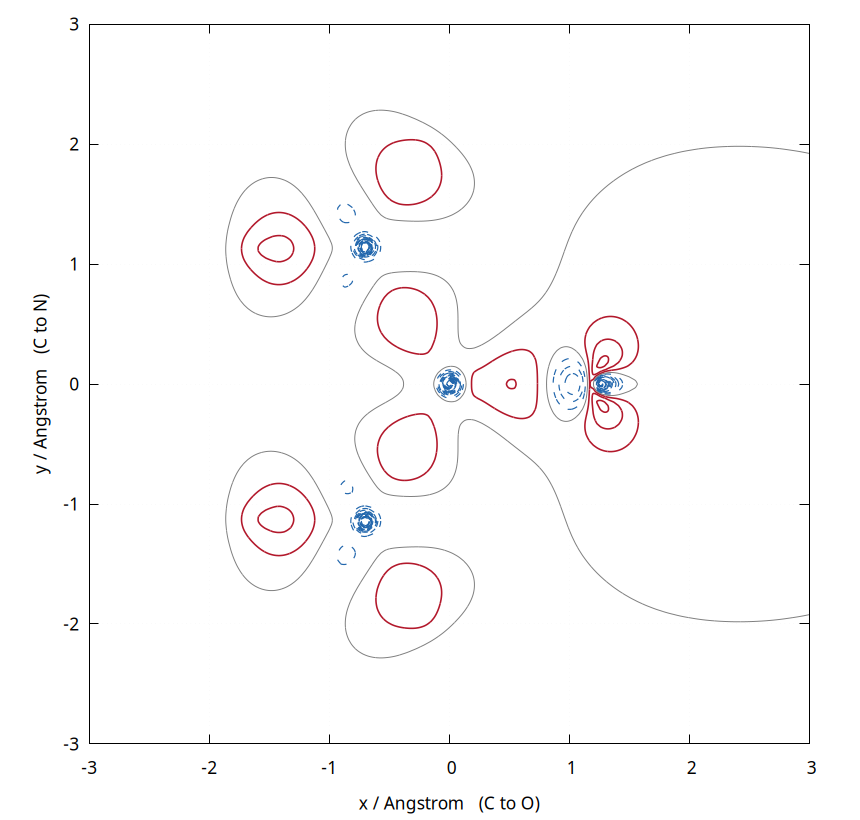
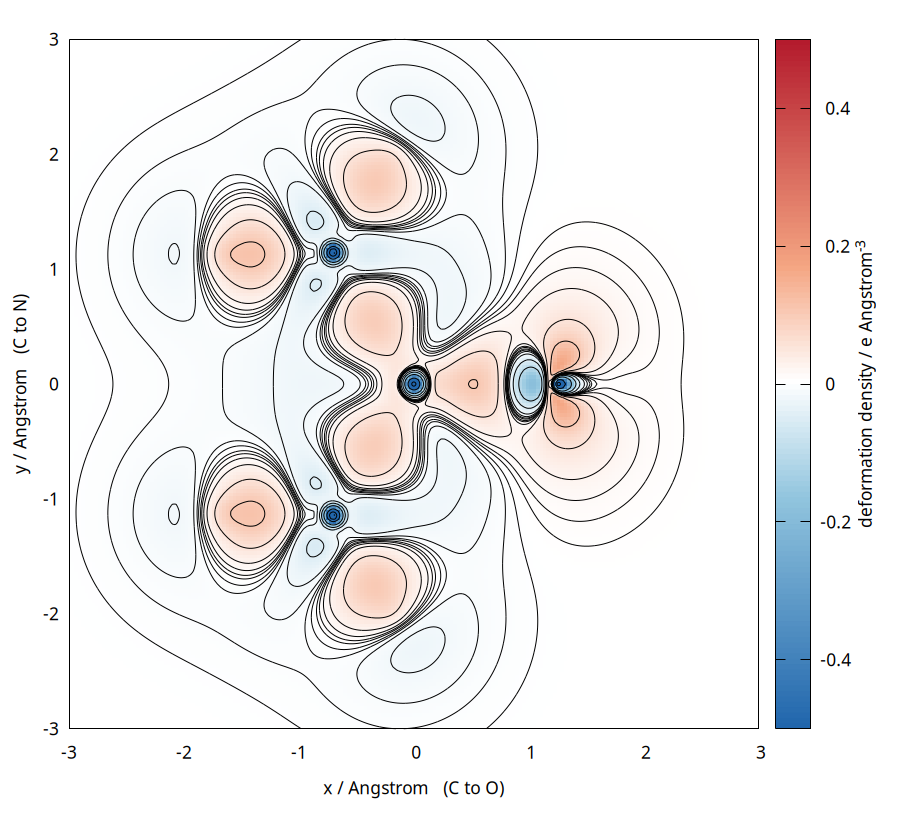
WORKSHOP: deformation maps with a colour scale and logarithmic contours
Three complaints, all fair: too few contours, no colour bar, and linear
levels where a density needs logarithmic ones.

The map is now drawn as a 2D image with its scale bar, and the contours are
overlaid as ordinary lines at +-0.002, 0.005, 0.01, 0.02, 0.05, 0.1, 0.2,
0.5, 1, 2 e/A^3. The difference map uses the same ladder a decade down.

Two things had to be got right and are commented in the script. gnuplot
computes contours only while making a surface and cannot draw them over a
pm3d map in one pass -- tabling them first and drawing them in a 2D `plot`
avoids both the mesh artefact of a second splot pass and the z-fighting that
punched white streaks through the map when the contours shared its plane.

diff --git a/workshop/WORKSHOP.md b/workshop/WORKSHOP.md
@@ -1047,9 +1047,11 @@ book-keeping quirk of the name, not of the calculation. The wavefunction is
 the λ = 0.001 one.)*
 
 The file holds one value per line, in 201 rows of 201 separated by blank
-lines. `deformation.gnuplot` in this directory turns either into a contour
-map — solid red where density was gained, dashed blue where it was lost, grey
-for the zero contour, at 0.05 e Å⁻³ intervals.
+lines. `deformation.gnuplot` in this directory turns either into a coloured
+map with contours on top. The contour levels are **logarithmic** — ±0.002,
+0.005, 0.01, 0.02, 0.05, 0.1, 0.2, 0.5, 1, 2 e Å⁻³ — because a density spans
+decades: evenly spaced contours either crowd into a black blot at the nuclei
+or vanish altogether in the bonds.
 **In a terminal**, type:
 
 ```bash
@@ -1080,17 +1082,19 @@ and the difference is a twentieth of the deformation density itself:
 paste -d' ' urea_deformation.deformation_density_grid,gnuplot \
             urea_deformation,lambda=0.002000.deformation_density_grid,gnuplot \
   | awk 'NF==0{print ""; next} {printf "%15.6E\n", $2-$1}' > difference.dat
-gnuplot -e "f='difference.dat'; out='difference.png'; d=0.005; c=0.05" deformation.gnuplot
+gnuplot -e "f='difference.dat'; out='difference.png'; c=0.05; \
+             lv='0.0005 0.001 0.002 0.005 0.01 0.02 0.05'" deformation.gnuplot
 ```
 
-`d` is the contour interval: ten times finer here, because the differences
-are ten times smaller.
+`c` is the colour range and `lv` the contour ladder, both a decade smaller
+here, because the differences are.
 
 ![Constrained minus unconstrained](images/deformation-difference.png)
 
-Note the contour interval: 0.005 e Å⁻³, a tenth of the maps above. The
-constraint puts density **back at the carbon and oxygen nuclei**, and the
-zero contour shows where it came from — the region beyond the C–N bonds. That is the same story the bond indices told
+Note the scale: the outermost contour is 0.0005 e Å⁻³, a hundredth of the
+maps above. The constraint puts density **back at the carbon and oxygen
+nuclei** and takes it **out of the region above and below the C–N bonds** —
+the same story the bond indices told in exercise 3, in real space. That is the same story the bond indices told
 in exercise 3 — the ionic index of the polar bonds fell — now in real space.
 
 ### Things to try next
